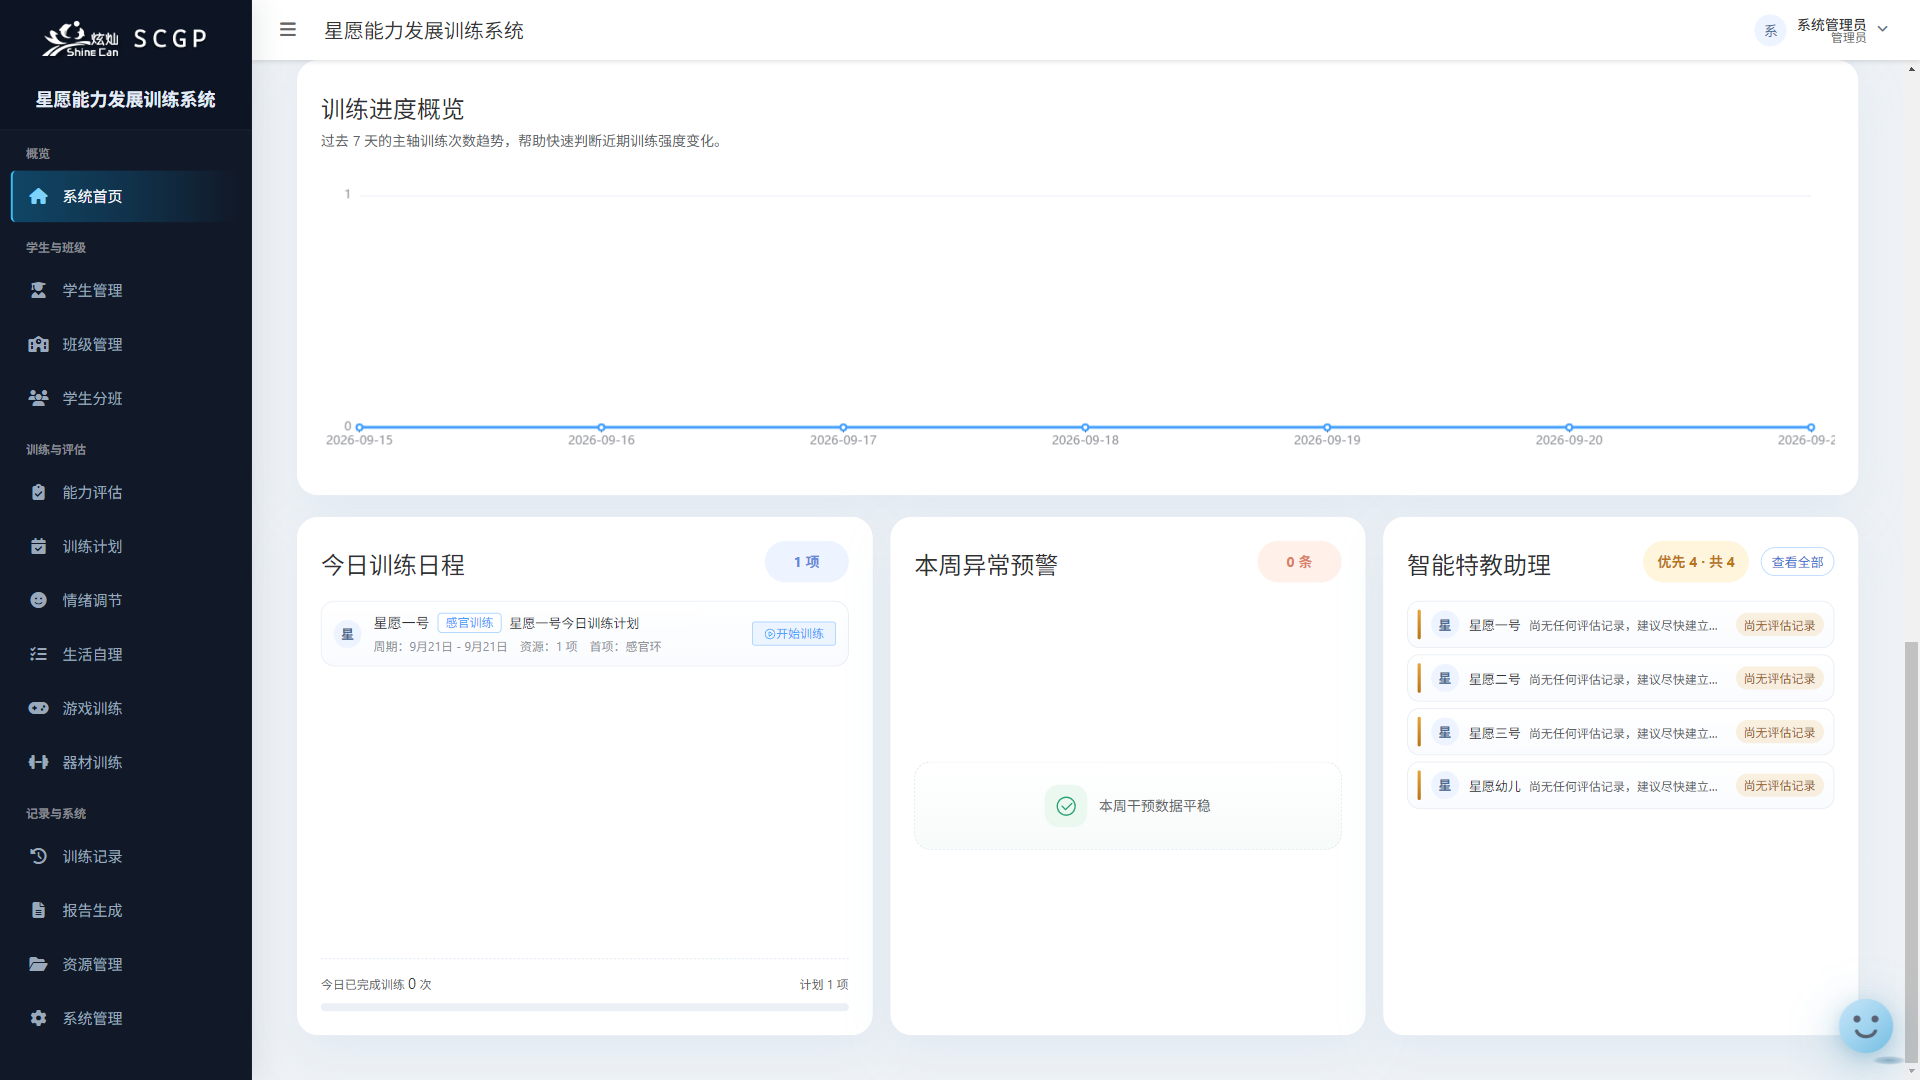
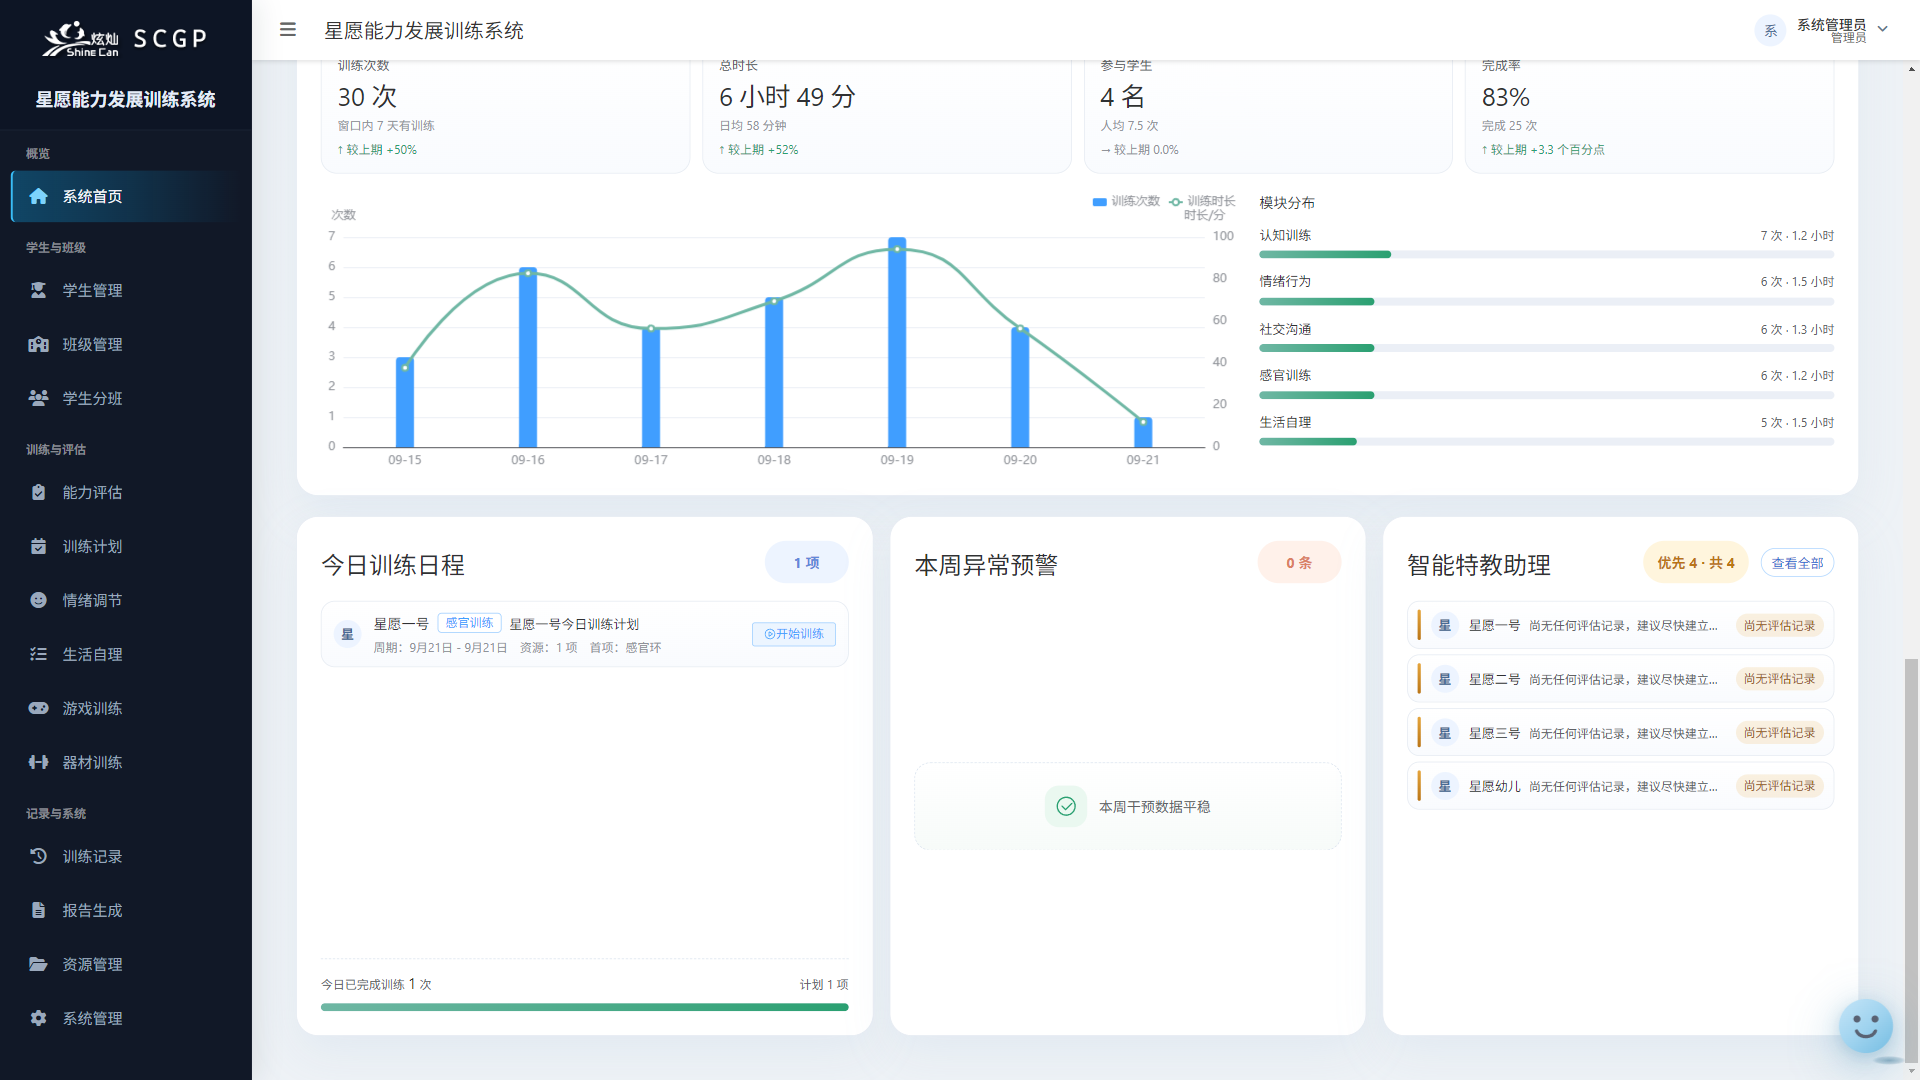
chore(manual): 首页训练进度卡片重拍 S009/S011 并就地刷新 docx 内嵌图
- fixture 新增 dashboard-trend 家族：按采集当天相对生成近 14 个自然日 × 5 模块训练会话
  （今天：plans 画像 1 条 / 无日程画像 0 条；created_at 落在异常面板窗口外，不动该面板演示状态），
  只挂 plans 与 admin-no-schedule 两个画像
- 采集 --ids S009,S011 --run-id dashboard-trend-20260921（2/2 成功，1920×1080 与旧图同尺寸）
- approvals 更新 + 删旧图 + promote 落盘 2 张；docx 就地换图（image13/image15，按旧批准哈希定位），
  条目数 244 与其余 media 哈希零改动，verify --docx = approvals 217 / embedded 217
- 基线档新增 §4.6 留痕（含「1080 视口放不下卡片 + 520px 看板、卡片顶部被裁」的画面刻度说明）

验证：verify-user-manual-approved-screenshots 217/217；manual:screenshots:check 217 场景 0 pending

diff --git a/docs/user-manual/SCGP-用户手册截图采集与维护基线.md b/docs/user-manual/SCGP-用户手册截图采集与维护基线.md
@@ -332,3 +332,19 @@
 - 采集：`--ids S001,S002 --run-id dashboard-top-20260921` 与 `--ids S007 --run-id dashboard-usermenu-20260921`（均 `--allow-isolated-state`），3 张全部成功。
 - 目视核对：S001 / S007 hero 已显示当前数字，S007 浮层完整未污染；S002 教师视图正确（无「系统管理」入口、scope 内 0 学生）。
 - 复核：`verify-user-manual-approved-screenshots.mjs` = 217 条 approvals 逐条哈希校验通过；`manual:screenshots:check` = 217 场景 / 0 pending。
+
+### 4.6 2026-09-21 首页「训练进度概览」卡片重做重拍（S009 / S011）
+
+卡片数据源从 legacy 表 `training_records` 切到统一主表 `training_session`，展示形态从「单线次数折线」升级为「窗口切换（近 7 / 30 天）+ KPI 行（次数 / 时长 / 参与学生 / 完成率，含环比）+ 次数-时长组合图 + 模块分布 + 当日明细弹层」，口径见 `docs/planning/2026-09-21-首页训练进度概览-判定口径.md`。重拍 2 张：
+
+| run | 编号 | 说明 |
+|---|---|---|
+| `dashboard-trend-20260921` | S009 / S011 | S009（整页）与 S011（整页）都承载看板，卡片在其上方同框；两图均为 1920×1080 |
+
+- **fixture 变更**：新增种子家族 `dashboard-trend`（`capture-user-manual-screenshots.mjs` 内），按**采集当天相对**生成近 14 个自然日 × 5 模块的训练会话（今天：`plans` 画像 1 条，`admin-no-schedule` 画像 0 条）；只挂到 `plans` 与 `admin-no-schedule` 两个画像，其余画像不受影响。种子行的 `created_at` 故意落在「本周异常预警」窗口（近 7 天）之外——它们只服务趋势卡片，不改动异常面板的演示状态（S009 / S011 的预警面板仍为「0 条 / 平稳」）。
+- 采集：`node scripts/manual/capture-user-manual-screenshots.mjs --ids S009,S011 --run-id dashboard-trend-20260921 --allow-isolated-state` → 2 张全部成功（0 失败）。
+- **画面刻度（重要）**：新版卡片比旧版高约 250px，**1080 视口内无法与 520px 看板同时完整入画**。两个场景的采集锚点仍是看板（`scrollIntoViewIfNeeded(.schedule-item / .schedule-panel)`），因此**卡片顶部（标题 + 窗口切换 + 摘要行）在画面之上**，图内可见卡片下部的 KPI 行、组合图与模块分布。若手册需要卡片的完整形态，须为其单独编号（走插行流程，会让后续编号整体漂移）——本轮未做。
+- 审批与落盘：approvals 中 S009 / S011 更新为本次 runId + sha256；落盘前按 §2 先删同名旧图，`promote-user-manual-screenshots.mjs --ids S009,S011 --allow-formal-output` 落盘 2 张。
+- docx 就地换图（§1 流程）：S009 → `word/media/image13.png`、S011 → `word/media/image15.png`（按**旧批准哈希**定位），新旧图像素尺寸一致（1920×1080）；换后自检「条目数 244 不变 + 除目标外 media 哈希不变 + 目标 = 新批准哈希」，`verify-user-manual-approved-screenshots.mjs --docx` = `approvals 217 / embedded 217`。备份：`SCGP-星愿能力发展平台用户使用手册.docx.20260921-trend.bak`。
+- 复核：`verify-user-manual-approved-screenshots.mjs` = 217 条 approvals 逐条哈希校验通过；`manual:screenshots:check` = 217 场景 / 0 pending。
+
